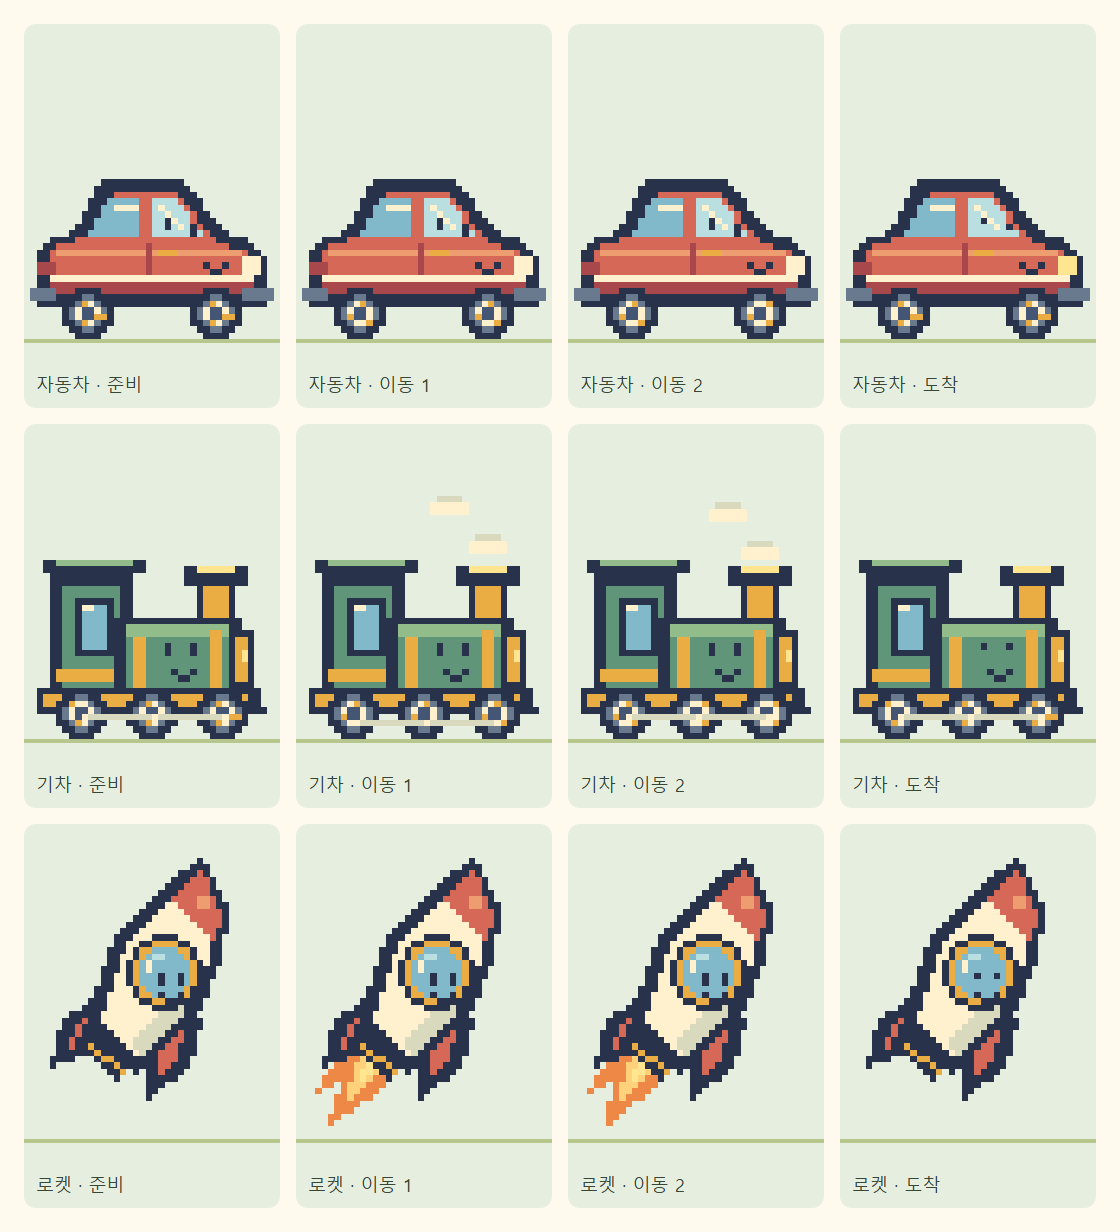
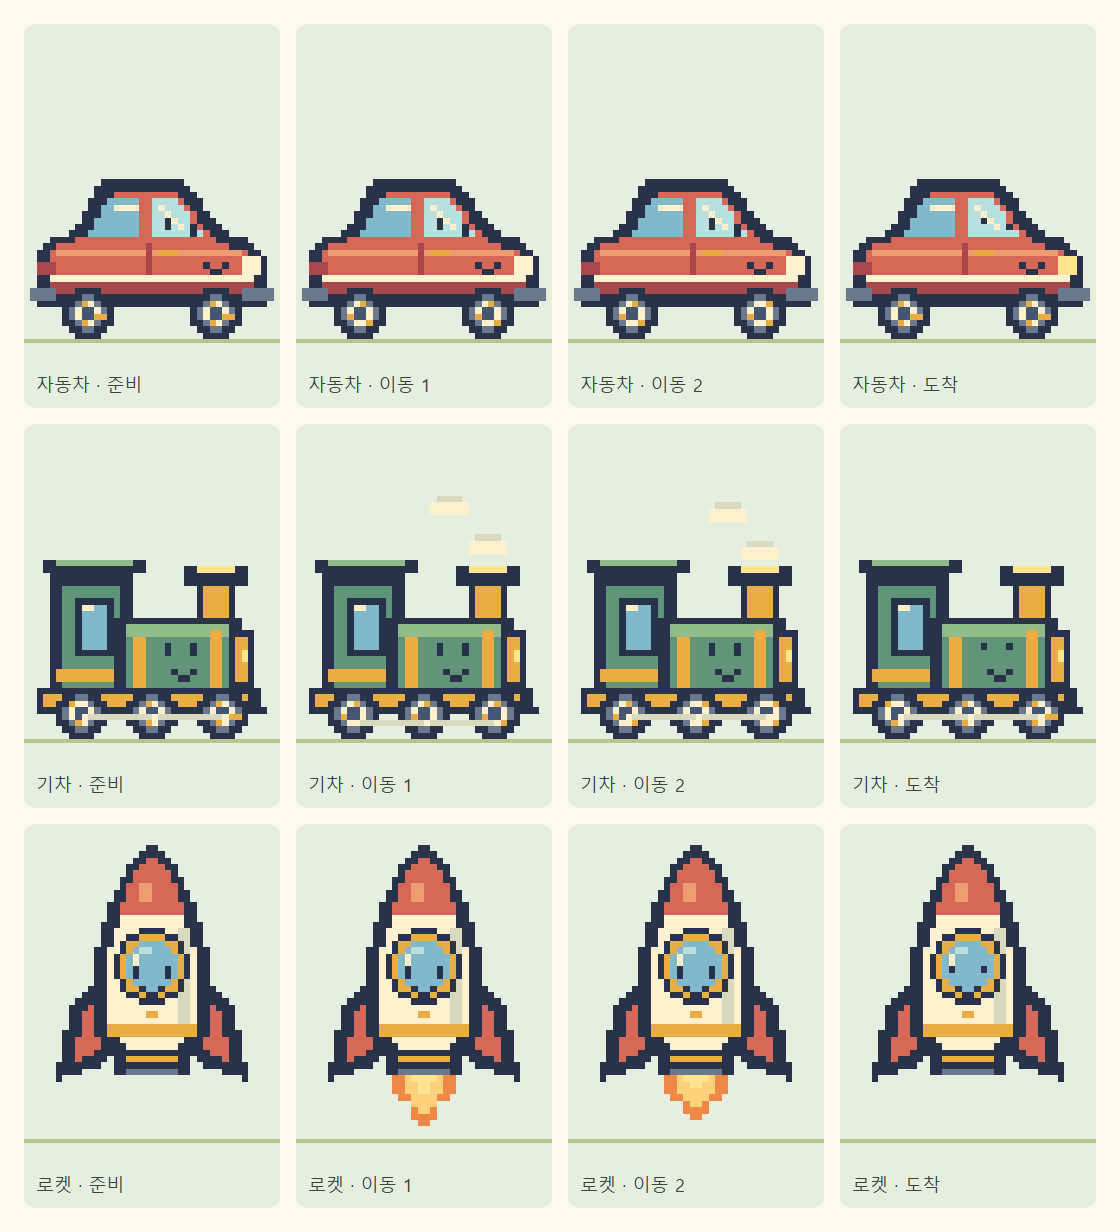
Align pixel rocket upright on one centered axis

diff --git a/scripts/vehicleArt.ts b/scripts/vehicleArt.ts
@@ -56,25 +56,30 @@ export function buildVehicleFrame(id: PixelVehicleId, frame: number) {
       rect(23 - puff, 11 - puff, 4, 2, 'w'); rect(22 - puff, 12 - puff, 6, 2, 'W');
     }
   } else {
-    // Stepped diagonal silhouette points forward; exhaust stays in its own lower-left pocket.
+    // One upright axis at x=20 aligns the nose, window, paired fins, nozzle and exhaust.
     if (moving) {
       const pulse = [0, 1, 2, 1, 0, 2, 1, 2][phase];
-      polygon([[10, 32], [17, 37], [11, 42], [6 - pulse, 46], [7, 39], [3, 41], [7, 34]], 'F');
-      polygon([[11, 34], [14, 37], [10, 41], [8, 42], [9, 37]], 'f');
-      polygon([[11, 35], [13, 37], [10, 39]], 'g');
+      polygon([[16, 37], [24, 37], [25, 40], [23, 43], [23, 41], [21, 45 + pulse], [19, 45 + pulse], [17, 41], [17, 43], [15, 40]], 'F');
+      polygon([[17, 37], [23, 37], [23, 40], [21, 43 + pulse], [19, 43 + pulse], [17, 40]], 'f');
+      polygon([[18, 37], [22, 37], [21, 40 + pulse], [19, 40 + pulse]], 'g');
     }
-    polygon([[13, 25], [6, 29], [4, 37], [12, 34], [19, 37], [19, 42], [26, 37], [28, 29]], 'O');
-    polygon([[13, 27], [8, 30], [7, 34], [13, 32]], 'R'); polygon([[21, 29], [25, 30], [24, 36], [21, 38]], 'R');
-    polygon([[28, 4], [32, 12], [31, 20], [27, 29], [18, 38], [9, 31], [14, 17], [21, 9]], 'O');
-    polygon([[28, 7], [30, 13], [29, 20], [25, 28], [18, 35], [12, 30], [16, 18], [23, 11]], 'W');
-    polygon([[28, 6], [31, 13], [30, 17], [23, 11]], 'R'); polygon([[28, 8], [29, 12], [27, 12]], 'P');
-    polygon([[26, 28], [19, 35], [16, 33], [24, 26]], 'w');
-    polygon([[10, 31], [17, 37], [15, 39], [8, 33]], 'O'); line(10, 33, 15, 37, 'G');
-    disc(22, 22, 6, 'O'); disc(22, 22, 5, 'G'); disc(22, 22, 4, 'B');
-    rect(20, 19, 2, 1, 'b'); rect(19, 20, 1, 2, 'W');
-    rect(21, 22, 1, wink ? 1 : 2, 'O'); rect(24, 22, 1, wink ? 1 : 2, 'O');
-    line(21, 25, 22, 26, 'O'); line(22, 26, 24, 25, 'O');
-    if (moving && phase % 3 === 0) rect(25, 15, 1, 2, 'g');
+    polygon([[12, 23], [7, 28], [5, 39], [13, 36], [16, 30]], 'O');
+    polygon([[28, 23], [33, 28], [35, 39], [27, 36], [24, 30]], 'O');
+    polygon([[12, 26], [9, 29], [8, 36], [12, 34], [14, 29]], 'R');
+    polygon([[28, 26], [31, 29], [32, 36], [28, 34], [26, 29]], 'R');
+    polygon([[20, 2], [24, 6], [27, 12], [29, 20], [29, 31], [25, 36], [15, 36], [11, 31], [11, 20], [13, 12], [16, 6]], 'O');
+    polygon([[20, 4], [23, 7], [25, 13], [27, 20], [27, 30], [24, 34], [16, 34], [13, 30], [13, 20], [15, 13], [17, 7]], 'W');
+    polygon([[20, 4], [23, 7], [25, 13], [15, 13], [17, 7]], 'R');
+    rect(13, 30, 14, 2, 'G'); rect(19, 28, 2, 1, 'G');
+    rect(14, 34, 12, 4, 'O'); rect(16, 35, 8, 1, 'G'); rect(16, 37, 8, 1, 'T');
+    // Mirror on the native grid so polygon boundary ties cannot offset the tip or exhaust by half a pixel.
+    for (const row of canvas.pixels) for (let x = 0; x < 20; x++) row[39 - x] = row[x];
+    rect(18, 8, 2, 3, 'P'); rect(24, 15, 2, 15, 'w');
+    disc(20, 21, 6, 'O'); disc(20, 21, 5, 'G'); disc(20, 21, 4, 'B');
+    rect(18, 18, 2, 1, 'b'); rect(17, 19, 1, 2, 'W');
+    rect(17, 21, 1, wink ? 1 : 2, 'O'); rect(22, 21, 1, wink ? 1 : 2, 'O');
+    line(18, 24, 19, 25, 'O'); line(19, 25, 20, 25, 'O'); line(20, 25, 21, 24, 'O');
+    if (moving && phase % 3 === 0) rect(19, 14, 2, 1, 'g');
   }
   return { pixels: canvas.pixels, paths: canvas.paths() };
 }

diff --git a/tests/e2e/pixel-vehicles.spec.ts b/tests/e2e/pixel-vehicles.spec.ts
@@ -1,5 +1,5 @@
 import { test, expect } from '@playwright/test';
-import { PIXEL_VEHICLES, vehicleMotion, vehicleViewBox } from '../../src/lib/pixelVehicles';
+import { PIXEL_VEHICLES, vehicleMotion, vehicleViewBox, vehicleAsset } from '../../src/lib/pixelVehicles';
 import { instrumentAudio } from './audio';
 
 for (const id of PIXEL_VEHICLES) test(`${id} pixel art clips correctly and preserves motion, pause, refresh and arrival`, async ({ page }, testInfo) => {
@@ -14,9 +14,10 @@ for (const id of PIXEL_VEHICLES) test(`${id} pixel art clips correctly and prese
     if (testInfo.project.name === 'webkit-mobile') await choice.tap(); else await choice.click();
     await expect(choice).toHaveAttribute('aria-pressed', 'true');
     await expect(choice.locator('[data-vehicle-sprite]')).toHaveCSS('overflow', 'hidden');
-    await expect(choice.locator('image')).toHaveAttribute('href', `/timer/characters/pixel-v1/${id}.svg`);
+    await expect(choice.locator('image')).toHaveAttribute('href', `/timer${vehicleAsset(id)}`);
   }
   if (testInfo.project.name === 'chromium' && id === 'car') await page.screenshot({ path: 'artifacts/pixel-vehicles-selection-320.png', fullPage: true });
+  if (testInfo.project.name === 'chromium' && id === 'rocket') await page.screenshot({ path: 'artifacts/pixel-rocket-selection-320.png', fullPage: true });
   await page.getByRole('button', { name: '출발!' }).click();
   await expect(page.locator('[data-status="running"]')).toBeVisible();
   await page.clock.pauseAt(await page.evaluate(() => Date.now() + 1000));
@@ -85,8 +86,8 @@ for (const id of PIXEL_VEHICLES) test(`${id} pixel art clips correctly and prese
     expect(art.x).toBeGreaterThanOrEqual(scene.x); expect(art.y).toBeGreaterThanOrEqual(scene.y);
     expect(art.x + art.width).toBeLessThanOrEqual(scene.x + scene.width);
   }
-  const painted = await page.evaluate(async ({ markup, id }) => {
-    const blob = await (await fetch(`/timer/characters/pixel-v1/${id}.svg`)).blob();
+  const painted = await page.evaluate(async ({ markup, sourcePath }) => {
+    const blob = await (await fetch(sourcePath)).blob();
     const source = await new Promise<string>((resolve) => { const reader = new FileReader(); reader.onload = () => resolve(String(reader.result)); reader.readAsDataURL(blob); });
     const svg = new DOMParser().parseFromString(markup.replace('<svg ', '<svg xmlns="http://www.w3.org/2000/svg" '), 'image/svg+xml').documentElement;
     svg.setAttribute('width', '160'); svg.setAttribute('height', '210'); svg.querySelector('image')!.setAttribute('href', source);
@@ -100,7 +101,7 @@ for (const id of PIXEL_VEHICLES) test(`${id} pixel art clips correctly and prese
       for (let p = 0; p < pixels.length / 4; p++) if (pixels[p * 4 + 3] > 128) { area++; bottom = Math.floor(p / 160); }
       return { area, bottom: bottom + 1 };
     } finally { URL.revokeObjectURL(url); }
-  }, { markup: walkingMarkup, id });
+  }, { markup: walkingMarkup, sourcePath: `/timer${vehicleAsset(id)}` });
   expect(painted.area).toBeGreaterThan(4300); expect(painted.bottom).toBeLessThan(210);
   if (id !== 'rocket') expect(painted.bottom).toBe(197);
   expect(errors).toEqual([]); expect(failed).toEqual([]);

diff --git a/scripts/generate-pixel-vehicles.ts b/scripts/generate-pixel-vehicles.ts
@@ -1,6 +1,6 @@
 import { mkdir, writeFile } from 'node:fs/promises';
 import { buildVehicleFrame, vehiclePalette } from './vehicleArt';
-import { PIXEL_VEHICLES, VEHICLE_SHEET, vehicleMotion } from '../src/lib/pixelVehicles';
+import { PIXEL_VEHICLES, VEHICLE_SHEET, vehicleMotion, vehicleAsset } from '../src/lib/pixelVehicles';
 
 async function main() {
   const { columns, rows, frameWidth, frameHeight, frames } = VEHICLE_SHEET;
@@ -12,8 +12,8 @@ async function main() {
       return `<g transform="translate(${frame % columns * frameWidth} ${Math.floor(frame / columns) * frameHeight + 5}) scale(4)">${paint}</g>`;
     }).join('');
     const svg = `<svg xmlns="http://www.w3.org/2000/svg" width="${columns * frameWidth}" height="${rows * frameHeight}" viewBox="0 0 ${columns * frameWidth} ${rows * frameHeight}" shape-rendering="crispEdges"><title>${vehicleMotion[id].name} — 오리지널 8비트 픽셀 캐릭터</title>${art}</svg>\n`;
-    await writeFile(`public/characters/pixel-v1/${id}.svg`, svg);
-    console.log(`${id}: ${frames} complete pixel frames, /timer/characters/pixel-v1/${id}.svg`);
+    await writeFile(`public${vehicleAsset(id)}`, svg);
+    console.log(`${id}: ${frames} complete pixel frames, /timer${vehicleAsset(id)}`);
   }
 }
 void main();

diff --git a/tests/pixelVehicles.test.ts b/tests/pixelVehicles.test.ts
@@ -71,3 +71,18 @@ test('driving frames change wheels/exhaust without shifting the body, and stoppe
   }
   for (const frame of [0, 9, 10, 11, 12, 13]) assert.ok(!buildVehicleFrame('rocket', frame).pixels.flat().includes('F'));
 });
+
+test('rocket nose, body, paired fins, nozzle and flame share an upright center in every frame', () => {
+  for (let frame = 0; frame < VEHICLE_SHEET.frames; frame++) {
+    const { pixels } = buildVehicleFrame('rocket', frame);
+    for (const [y, row] of pixels.entries()) {
+      for (let x = 0; x < 20; x++) assert.equal(Boolean(row[x]), Boolean(row[39 - x]), `Frame ${frame} row ${y} leans off center`);
+      const occupied = row.flatMap((color, x) => color ? [x] : []);
+      if (occupied.length) assert.equal(occupied[0] + occupied.at(-1)!, 39, `Frame ${frame} row ${y} has a shifted axis`);
+      if (y >= 38) for (let x = 0; x < 20; x++) {
+        const flame = (color: typeof row[number]) => color === 'F' || color === 'f' || color === 'g';
+        assert.equal(flame(row[x]), flame(row[39 - x]), `Frame ${frame} exhaust points sideways`);
+      }
+    }
+  }
+});

diff --git a/src/lib/pixelVehicles.ts b/src/lib/pixelVehicles.ts
@@ -10,7 +10,10 @@ export const vehicleMotion = {
   rocket: { cycleMs: 1200, groundY: 210, name: '로켓' },
 } as const;
 export function isPixelVehicle(id: string): id is PixelVehicleId { return PIXEL_VEHICLES.some((vehicle) => vehicle === id); }
-export function vehicleAsset(id: PixelVehicleId) { return `/characters/pixel-v1/${id}.svg`; }
+export function vehicleAsset(id: PixelVehicleId) {
+  // A new filename also refreshes previously cached diagonal rocket artwork.
+  return `/characters/pixel-v1/${id === 'rocket' ? 'rocket-upright-v2' : id}.svg`;
+}
 
 /** Wheel circumference and scenery share one elapsed clock; rocket exhaust uses its flight cycle. */
 export function vehicleFrame(id: PixelVehicleId, action: CharacterAction, elapsed: number, reduced = false) {

diff --git a/docs/character-design/vehicles-pixel-v1/README.md b/docs/character-design/vehicles-pixel-v1/README.md
@@ -8,11 +8,11 @@
 
 - **자동차:** 기존 빨간색 계열의 소형차, 밝은 창문과 웃는 얼굴, 두 바퀴 회전.
 - **기차:** 초록·금색 기관차, 오른쪽을 향한 굴뚝, 세 바퀴·연결봉과 작은 증기.
-- **로켓:** 크림·주황색의 대각선 우주선, 얼굴이 있는 창문과 픽셀 불꽃.
+- **로켓:** 크림·주황색의 수직 우주선. 머리·몸통·창문·양쪽 날개·분사구·불꽃을 하나의 중심축에 맞췄습니다.
 
 ## 구현
 
-`scripts/pixelArt.ts`는 픽셀 격자 도구이고, `scripts/vehicleArt.ts`가 그림을 정의합니다. `scripts/generate-pixel-vehicles.ts`를 실행하거나 `npm run characters`를 사용하면 `public/characters/pixel-v1/{car,train,rocket}.svg`를 생성합니다. 캐릭터마다 준비 1장·이동 8장·점프 1장·착지 1장·축하 3장으로 총 14장의 전신 프레임을 보관합니다.
+`scripts/pixelArt.ts`는 픽셀 격자 도구이고, `scripts/vehicleArt.ts`가 그림을 정의합니다. `scripts/generate-pixel-vehicles.ts`를 실행하거나 `npm run characters`를 사용하면 `public/characters/pixel-v1/`에 `car.svg`, `train.svg`, `rocket-upright-v2.svg`를 생성합니다. 캐릭터마다 준비 1장·이동 8장·점프 1장·착지 1장·축하 3장으로 총 14장의 전신 프레임을 보관합니다. 로켓은 새 파일명으로 이전 대각선 그림의 브라우저 캐시를 갱신하며, 기존 `rocket.svg`는 이전 앱 버전의 요청을 위해 유지합니다.
 
 `PixelVehicleArtwork.tsx`를 선택 카드, 작은 진행 아이콘과 여행 화면에서 함께 사용합니다. 모든 표시 영역은 한 프레임만 보여주도록 잘라내며, 자산 주소는 `assetPath()`로 `/timer/`를 적용합니다. 실제 그림은 SVG의 정수 사각 경로로 구성하여 회전·보간으로 픽셀 가장자리가 흐려지지 않습니다.
 
@@ -24,8 +24,10 @@
 
 ## 검증
 
-`tests/pixelVehicles.test.ts`에서 기존 주기·접지 높이·바퀴 둘레와 지면 이동·모션 감소·42개 프레임의 실제 SVG 픽셀 격자를 검사합니다. `tests/e2e/pixel-vehicles.spec.ts`에서 세 캐릭터의 반복 선택·자산 로딩·한 프레임 잘림·이동·일시정지·새로고침·재개·50%·90%·도착·소리 1회·별 보상·320px과 가로 화면을 검사합니다.
+`tests/pixelVehicles.test.ts`에서 기존 주기·접지 높이·바퀴 둘레와 지면 이동·모션 감소·42개 프레임의 실제 SVG 픽셀 격자를 검사합니다. 로켓 14개 프레임은 모든 행의 실루엣과 불꽃이 수직 중심선에 좌우 대칭인지 추가 검사합니다. `tests/e2e/pixel-vehicles.spec.ts`에서 세 캐릭터의 반복 선택·자산 로딩·한 프레임 잘림·이동·일시정지·새로고침·재개·50%·90%·도착·소리 1회·별 보상·320px과 가로 화면을 검사합니다.
 
 PC Chromium과 모바일 WebKit을 사용하며, 실제 iPhone 하드웨어의 소리·잠금 정책 검증을 대체하지는 않습니다.
 
 2026-10-09: 타입 검사·린트·정적 빌드·`/timer/` 자산 검사와 단위 검사 55개 통과. 기존 친구·왕자 관련 브라우저 검사 12개와 차량 검사 6개 통과. 최종 축하 회전을 제거한 빌드에서도 차량 검사 6개를 다시 확인했습니다.
+
+2026-10-09 로켓 수직 정렬 수정: 타입 검사·린트·정적 빌드·단위 검사 56개와 로켓 브라우저 검사 2개(Chromium·모바일 WebKit) 통과. 선택 카드와 320px 이동 화면·프레임 시안을 갱신했습니다.
